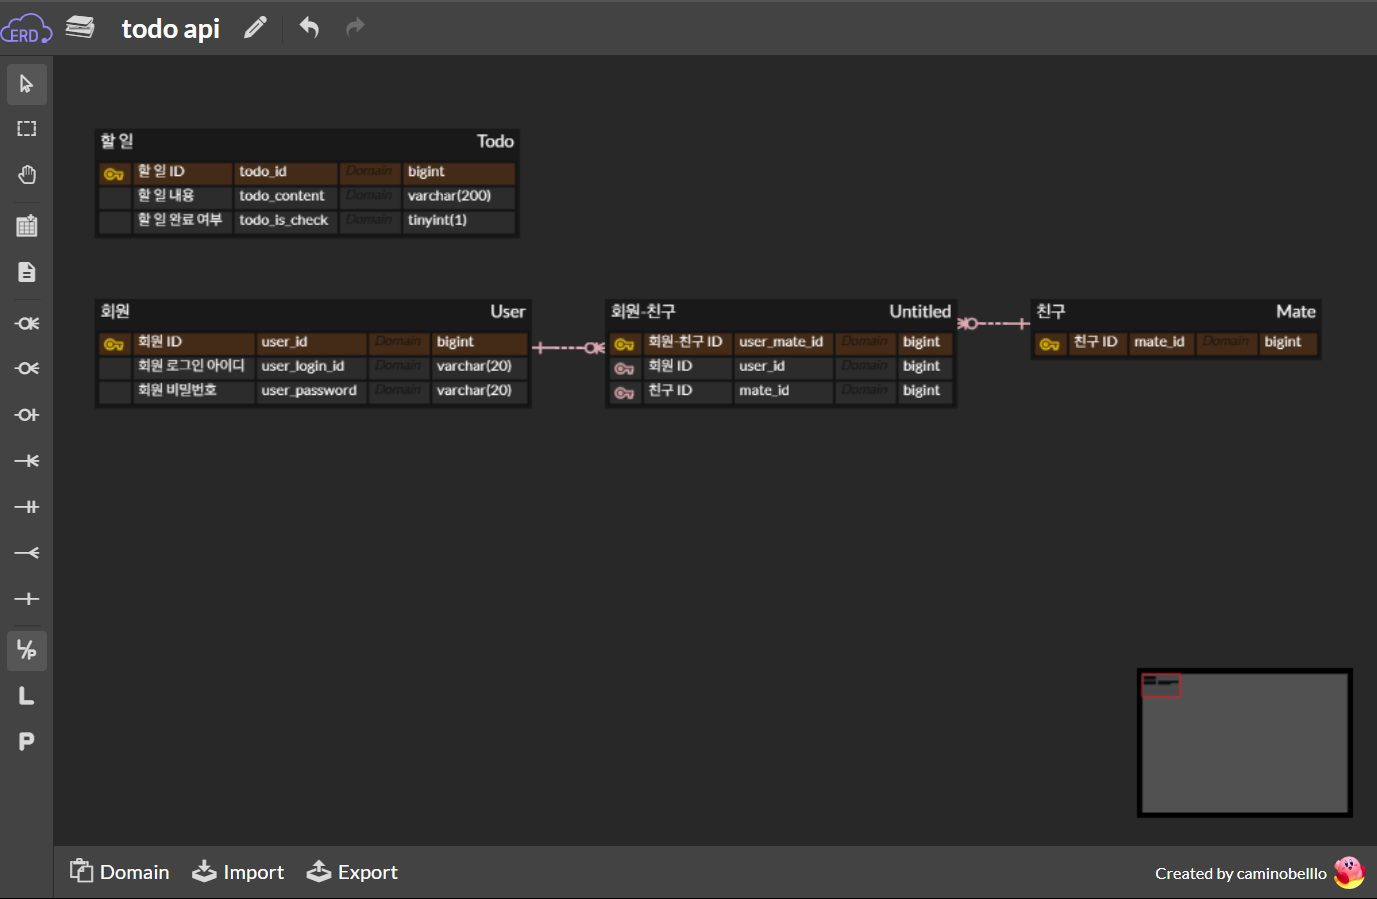
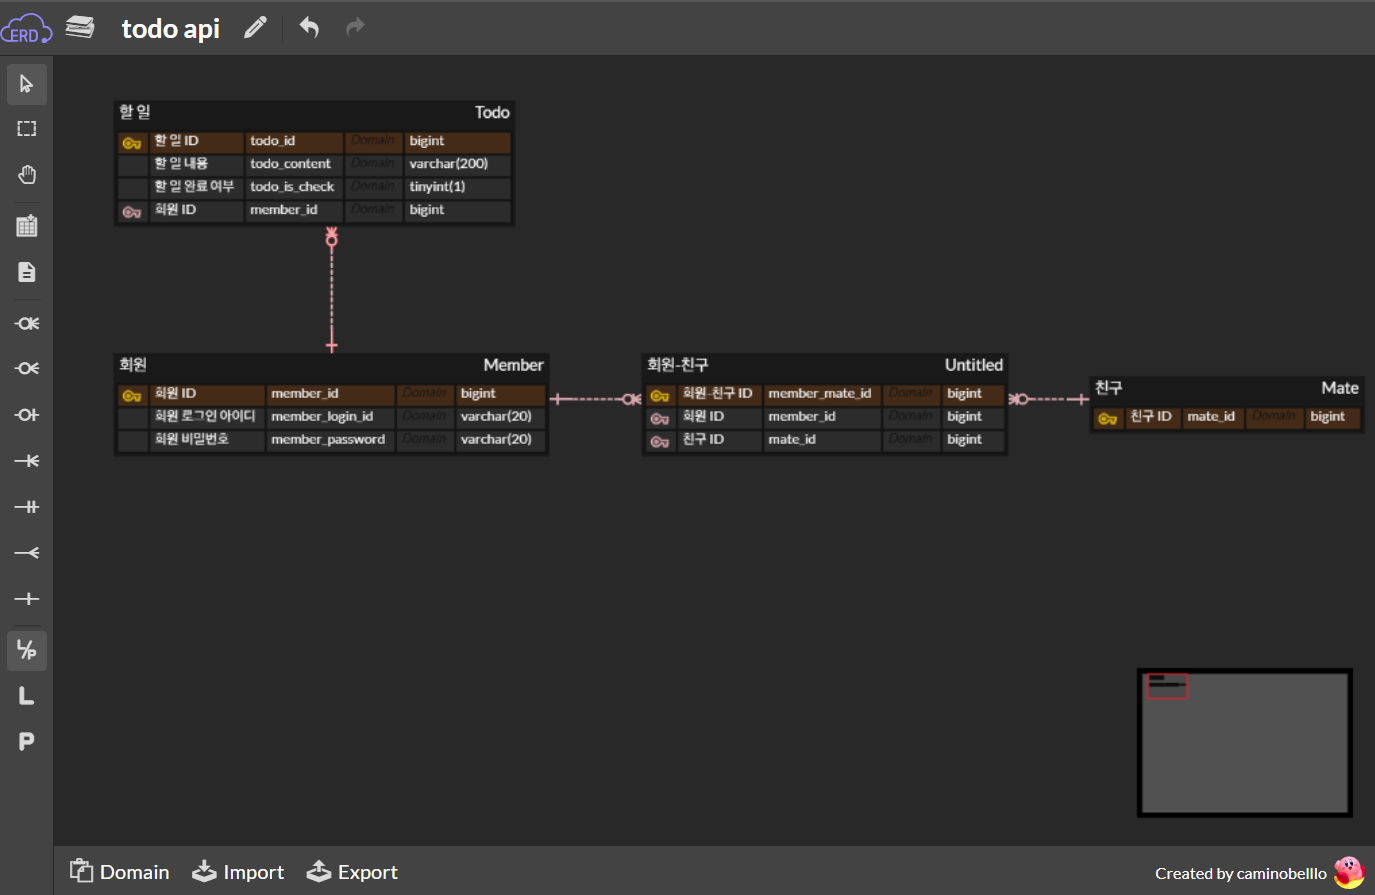
week4

diff --git a/todo-api/src/main/java/com/example/todo_api/todo/Todo.java b/todo-api/src/main/java/com/example/todo_api/todo/Todo.java
@@ -1,4 +1,24 @@
 package com.example.todo_api.todo;
 
+import com.example.todo_api.member.Member;
+import jakarta.persistence.*;
+
+@Entity
 public class Todo {
+    @Id
+    @GeneratedValue(strategy = GenerationType.IDENTITY)
+    @Column(name = "todo_id")
+    private Long id;
+
+    @Column(name = "todo_content", columnDefinition = "varchar(200)")
+    private String content;
+
+    @Column(name = "todo_is_check", columnDefinition = "tinyint(1)")
+    private boolean isCheck;
+
+    @JoinColumn(name = "user_id")
+    @ManyToOne(fetch = FetchType.LAZY)
+    private Member member;
+
+
 }

diff --git a/todo-api/src/main/java/com/example/todo_api/member/Member.java b/todo-api/src/main/java/com/example/todo_api/member/Member.java
@@ -1,0 +1,17 @@
+package com.example.todo_api.member;
+
+import jakarta.persistence.*;
+
+@Entity
+public class Member {
+    @Id
+    @GeneratedValue(strategy = GenerationType.IDENTITY)
+    @Column(name = "member_id")
+    private Long id;
+
+    @Column(name = "member_login_id", columnDefinition = "varchar(200)", nullable = false)
+    private String login_id;
+
+    @Column(name = "member_password", columnDefinition = "varchar(200)", nullable = false)
+    private String password;
+}

diff --git a/todo-api/src/main/java/com/example/todo_api/mate/Mate.java b/todo-api/src/main/java/com/example/todo_api/mate/Mate.java
@@ -1,4 +1,12 @@
 package com.example.todo_api.mate;
 
+import jakarta.persistence.*;
+
+@Entity
 public class Mate {
+    @Id
+    @GeneratedValue(strategy = GenerationType.IDENTITY)
+    @Column(name = "mate_id")
+    private Long id;
 }
+

diff --git a/week4/wil.md b/week4/wil.md
@@ -101,4 +101,4 @@ JPA의 DB 기본 키 생성 방식으로는
 
 # h2 관리자 콘솔
 
-![alt text](h2_console.png)
+![alt text](console.png)
